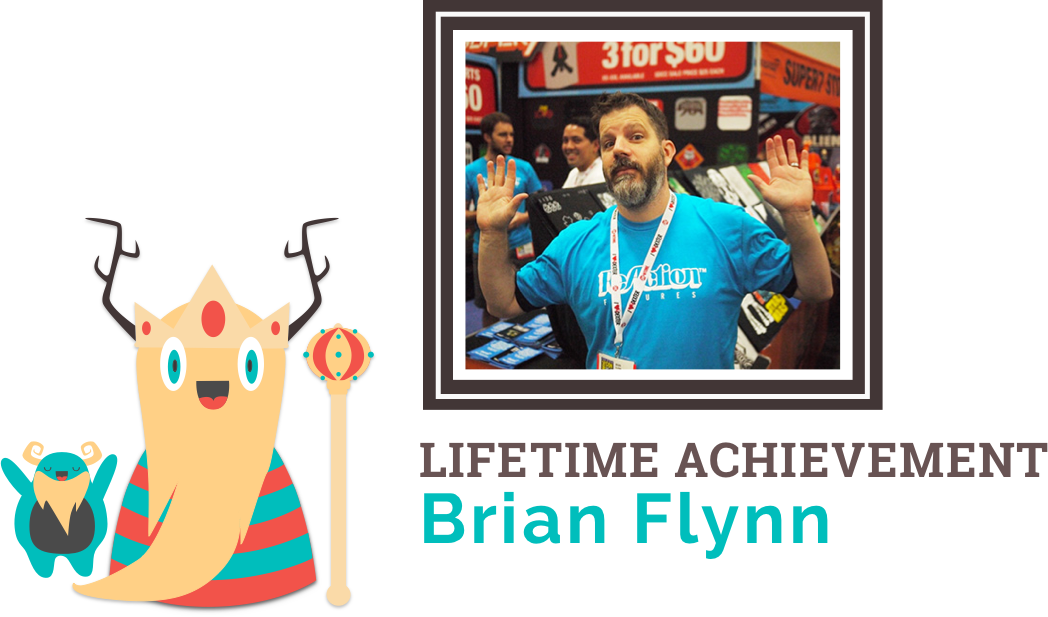
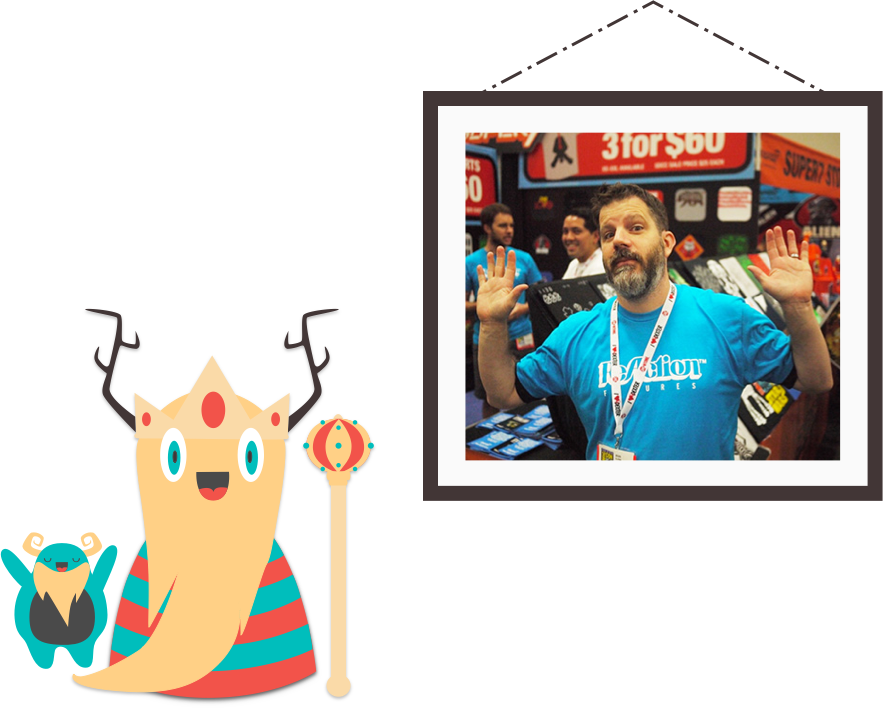
change winner image 'frames', add coded text to winners section

diff --git a/app/styles/partials/_winners.scss b/app/styles/partials/_winners.scss
@@ -44,9 +44,7 @@
     background-color: $cream;
     overflow: auto;
     white-space: nowrap;
-    padding-bottom: 20px;
-    padding-top: 30px;
-    margin-bottom: 35px;
+    margin-bottom: 25px;
   }
 
 
@@ -54,7 +52,7 @@
   div.scrollmenu-winners a {
       display: inline-block;
       border: 2px solid $cream;
-
+      height: 500px;
       // padding: 14px;
   }
 
@@ -66,4 +64,29 @@
     border: 1px $cream solid;
   }
 
+  .win-text {
+    width: 279px;
+    position: relative;
+    top: -135px;
+    float: right;
+  }
+
+  .win-award {
+    font-weight: bold;
+    font-family: "Arvo";
+    line-height: 0px;
+    margin-bottom: 25px;
+  }
+  .win-name {
+    color: $blue;
+    font-weight: bold;
+    line-height: 0px;
+    font-size: 30px;
+    margin-top: 25px;
+    margin-bottom: 25px;
+
+  }
+  .second-line {
+    line-height: 50px;
+  }
 }
